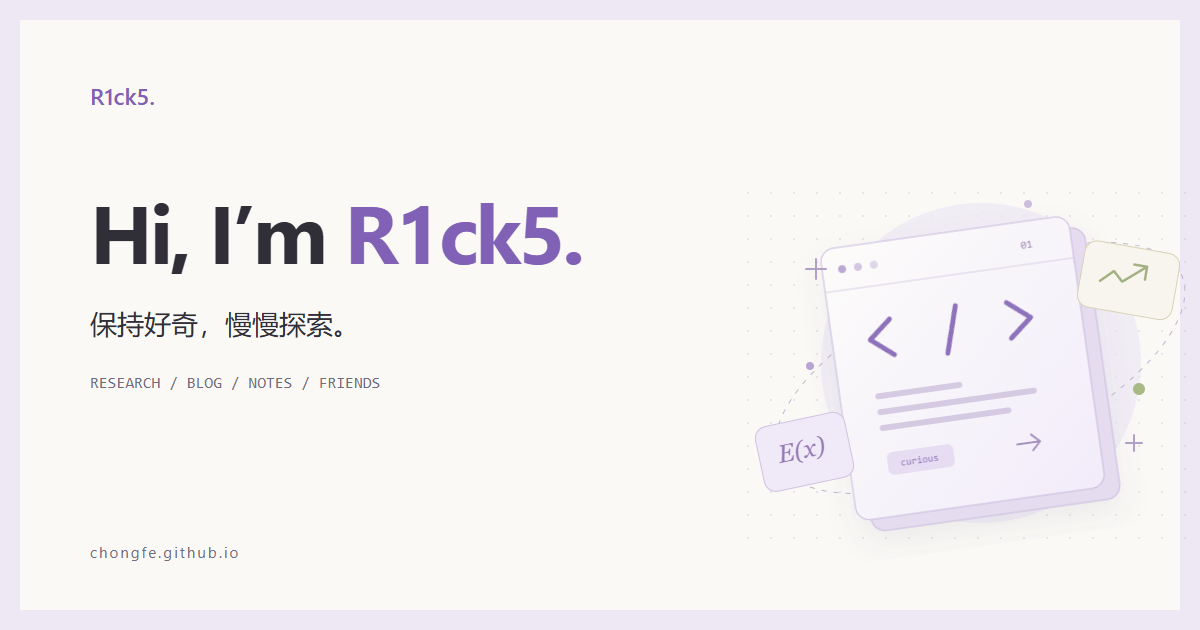
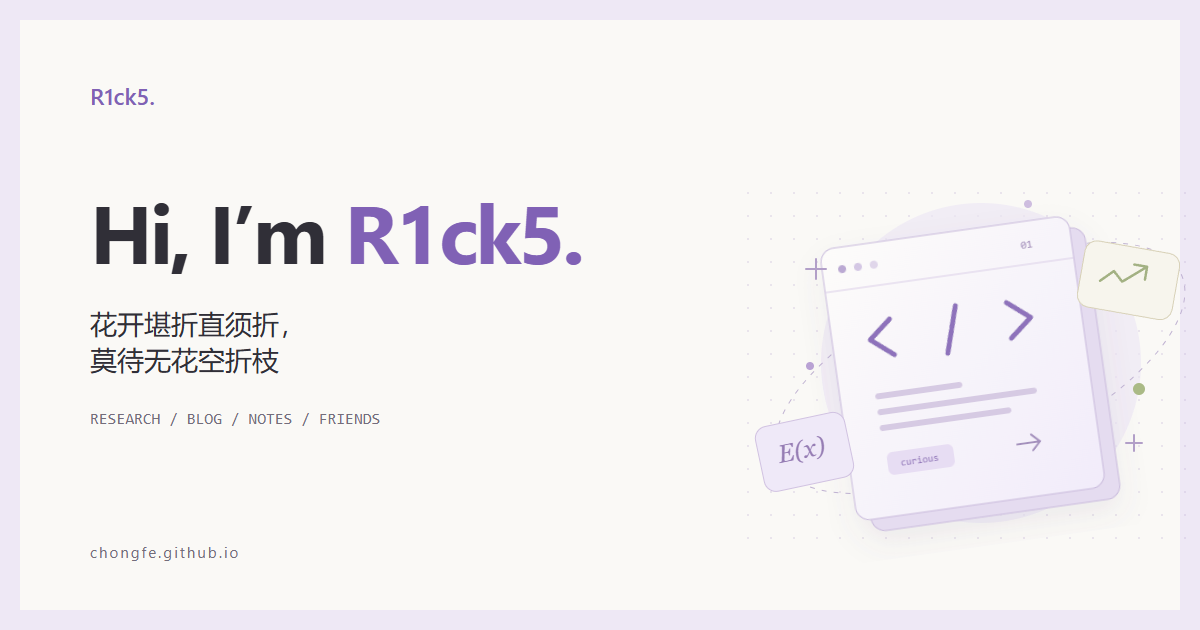
Update R1ck5 homepage motto

diff --git a/src/styles/global.css b/src/styles/global.css
@@ -12,7 +12,7 @@
   .site-header { height:87px; border-bottom:1px solid var(--line); } .header-inner { max-width:1160px; height:100%; margin:auto; padding:0 28px; display:flex; align-items:center; gap:70px; }
   .brand { display:inline-flex; align-items:center; font-size:25px; font-weight:700; letter-spacing:-1.1px; gap:11px; } .brand-mark { display:flex; align-items:center; justify-content:center; width:34px; height:36px; background:var(--purple); border-radius:10px; color:#fff; font-size:24px; position:relative; font-family:Georgia,serif; } .brand-mark span { font-size:22px; color:#dcedb3; position:absolute; right:3px; top:-10px; } .header-inner nav { display:flex; gap:32px; height:100%; align-items:center; } .header-inner nav a { position:relative; font-size:14px; color:var(--muted); height:100%; display:flex; align-items:center; } .header-inner nav a:hover,.header-inner nav a[aria-current] { color:var(--purple); } .header-inner nav a[aria-current]::after { content:""; position:absolute; bottom:19px; left:calc(50% - 2px); width:4px; height:4px; background:var(--purple); border-radius:50%; }
   .header-actions { margin-left:auto; display:flex; align-items:center; gap:18px; } .github-link { display:flex; align-items:center; gap:8px; font-size:13px; } .github-link svg:last-child { width:14px; } .divider { width:1px; height:19px; background:var(--line); } .icon-button { width:36px; height:36px; display:grid; place-items:center; border-radius:50%; color:var(--muted); } .icon-button:hover { background:var(--lavender); color:var(--purple); }
-  .home-wrap,.page-wrap,.article-wrap,.site-footer { max-width:1104px; margin:auto; } .hero { display:grid; grid-template-columns:1.1fr 1fr; align-items:center; min-height:505px; padding:42px 0 36px; gap:12px; } .eyebrow { font-family:Consolas,"SFMono-Regular",monospace; font-size:10px; letter-spacing:2px; color:var(--muted); display:flex; align-items:center; gap:9px; } .eyebrow>span { width:6px; height:6px; border-radius:50%; background:var(--purple); } .hero h1 { margin:26px 0 9px; font-size:68px; line-height:1.15; font-weight:650; letter-spacing:-3.3px; white-space:nowrap; } .hero h1>span:first-child { color:var(--purple); } .hero-dot { color:var(--text); } .hero-subtitle { font-size:34px; line-height:1.55; font-weight:500; letter-spacing:2px; } .hero-subtitle br { display:none; } .hero-description { margin-top:20px; font-size:14px; line-height:1.95; color:var(--muted); letter-spacing:.4px; } .hero-actions { display:flex; gap:14px; margin-top:28px; } .button { display:inline-flex; gap:16px; align-items:center; justify-content:center; border-radius:7px; padding:11px 19px; font-size:13px; font-weight:500; min-height:44px; } .primary { background:var(--purple); color:#fff; border:1px solid transparent; } .primary:hover { background:var(--purple-strong); color:#fff; transform:translateY(-2px); } :root[data-theme=dark] .primary { background:#8f6abc; } .quiet { border:1px solid var(--line); background:var(--surface); } .quiet:hover { border-color:var(--purple); } .button svg { width:16px; } .hero-note { font-family:Consolas,monospace; font-size:11px; color:var(--muted); margin-top:23px; display:flex; align-items:center; gap:8px; letter-spacing:.6px; } .status-dot { height:6px; width:6px; background:#96a972; border-radius:50%; } .hero-art { position:relative; margin-right:-12px; } .hero-art img { width:100%; height:auto; display:block; } .art-caption { display:block; text-align:center; font-family:Georgia,serif; font-style:italic; font-size:13px; color:var(--subtle); margin-top:-5px; } :root[data-theme=dark] .hero-art img { filter:brightness(.78) saturate(.8); }
+  .home-wrap,.page-wrap,.article-wrap,.site-footer { max-width:1104px; margin:auto; } .hero { display:grid; grid-template-columns:1.1fr 1fr; align-items:center; min-height:505px; padding:42px 0 36px; gap:12px; } .eyebrow { font-family:Consolas,"SFMono-Regular",monospace; font-size:10px; letter-spacing:2px; color:var(--muted); display:flex; align-items:center; gap:9px; } .eyebrow>span { width:6px; height:6px; border-radius:50%; background:var(--purple); } .hero h1 { margin:26px 0 9px; font-size:68px; line-height:1.15; font-weight:650; letter-spacing:-3.3px; white-space:nowrap; } .hero h1>span:first-child { color:var(--purple); } .hero-dot { color:var(--text); } .hero-subtitle { font-size:34px; line-height:1.55; font-weight:500; letter-spacing:2px; } .hero-subtitle br { display:block; } .hero-description { margin-top:20px; font-size:14px; line-height:1.95; color:var(--muted); letter-spacing:.4px; } .hero-actions { display:flex; gap:14px; margin-top:28px; } .button { display:inline-flex; gap:16px; align-items:center; justify-content:center; border-radius:7px; padding:11px 19px; font-size:13px; font-weight:500; min-height:44px; } .primary { background:var(--purple); color:#fff; border:1px solid transparent; } .primary:hover { background:var(--purple-strong); color:#fff; transform:translateY(-2px); } :root[data-theme=dark] .primary { background:#8f6abc; } .quiet { border:1px solid var(--line); background:var(--surface); } .quiet:hover { border-color:var(--purple); } .button svg { width:16px; } .hero-note { font-family:Consolas,monospace; font-size:11px; color:var(--muted); margin-top:23px; display:flex; align-items:center; gap:8px; letter-spacing:.6px; } .status-dot { height:6px; width:6px; background:#96a972; border-radius:50%; } .hero-art { position:relative; margin-right:-12px; } .hero-art img { width:100%; height:auto; display:block; } .art-caption { display:block; text-align:center; font-family:Georgia,serif; font-style:italic; font-size:13px; color:var(--subtle); margin-top:-5px; } :root[data-theme=dark] .hero-art img { filter:brightness(.78) saturate(.8); }
   .interest-grid { display:grid; grid-template-columns:repeat(3,1fr); gap:18px; } .interest-card { display:flex; align-items:center; gap:15px; border:1px solid var(--line); border-radius:11px; padding:24px 20px; background:var(--surface); box-shadow:var(--shadow); } .interest-card:hover { transform:translateY(-3px); border-color:var(--purple); } .interest-icon { width:43px; height:45px; border-radius:11px; display:inline-flex; align-items:center; justify-content:center; background:var(--lavender); color:var(--purple); flex-shrink:0; } .interest-icon.green { background:var(--green); color:#85916b; } .interest-icon.peach { background:var(--peach); color:#b58f71; } .small-label { font-size:9px; letter-spacing:1.5px; color:var(--muted); font-family:Consolas,monospace; } .interest-card h2 { font-size:15px; margin:3px 0 4px; letter-spacing:.5px; } .interest-card p { color:var(--muted); font-size:11px; } .interest-card>svg { width:15px; color:var(--subtle); margin-left:auto; align-self:flex-start; }
   .home-bottom { display:grid; grid-template-columns:1.8fr 1fr; gap:36px; margin-top:47px; } .section-heading { display:flex; align-items:center; justify-content:space-between; gap:14px; margin-bottom:20px; } .section-heading h2 { display:flex; align-items:baseline; gap:12px; font-size:17px; letter-spacing:.5px; } .section-heading h2>span { font-family:Consolas,monospace; font-size:9px; letter-spacing:1.2px; font-weight:400; color:var(--muted); } .section-heading>a { display:flex; align-items:center; gap:8px; font-size:12px; color:var(--muted); } .section-heading>a svg { width:16px; }
   .post-card { padding:28px 30px; border:1px solid var(--line); background:var(--surface); border-radius:11px; position:relative; overflow:hidden; } .post-card>*:not(.post-watermark) { position:relative; z-index:1; } .post-meta { display:flex; align-items:center; gap:13px; flex-wrap:wrap; font-size:11px; color:var(--muted); } .tag { display:inline-block; background:var(--lavender); color:var(--purple-strong); border-radius:4px; padding:2px 8px; font-size:10px; } .post-card h3 { font-size:20px; margin:15px 0 9px; letter-spacing:.1px; } .post-card p { font-size:13px; line-height:1.9; max-width:490px; color:var(--muted); } .text-link { display:inline-flex; align-items:center; gap:10px; color:var(--purple); font-size:12px; padding:0; } .post-card .text-link { margin-top:23px; } .text-link svg { width:16px; } .post-watermark { position:absolute; bottom:12px; right:15px; font-family:Georgia,serif; font-size:69px; font-style:italic; color:var(--lavender); letter-spacing:-4px; pointer-events:none; } .post-watermark span { color:var(--line); } .hello-card { padding:0 0 0 0; } .little-star { color:var(--purple); font-size:30px; line-height:1; } .hello-card>p { color:var(--muted); font-size:14px; line-height:1.9; padding:18px 0; } .elsewhere-links a { display:flex; align-items:center; justify-content:space-between; padding:13px 0; border-bottom:1px solid var(--line); font-size:12px; } .elsewhere-links a svg { width:16px; color:var(--muted); } .home-signoff { display:flex; align-items:center; justify-content:center; gap:20px; color:var(--subtle); font-size:11px; letter-spacing:2px; margin:43px 0 39px; } .home-signoff>span { width:43px; height:1px; background:var(--line); }

diff --git a/src/config/site.ts b/src/config/site.ts
@@ -1,9 +1,10 @@
 export const site = {
   name: 'R1ck5',
+  tagline: '花开堪折直须折，莫待无花空折枝',
   avatar: '/assets/avatar.jpg',
-  title: 'R1ck5 · 保持好奇，慢慢探索',
+  title: 'R1ck5 · 花开堪折直须折，莫待无花空折枝',
   url: 'https://chongfe.github.io',
-  description: '记录研究、代码与生活。保持好奇，慢慢探索。',
+  description: '记录研究、代码与生活。花开堪折直须折，莫待无花空折枝。',
   github: 'https://github.com/chongfe',
   repository: 'https://github.com/chongfe/chongfe.github.io',
   // 新增页面后，在这里添加一项即可扩展全站导航。
